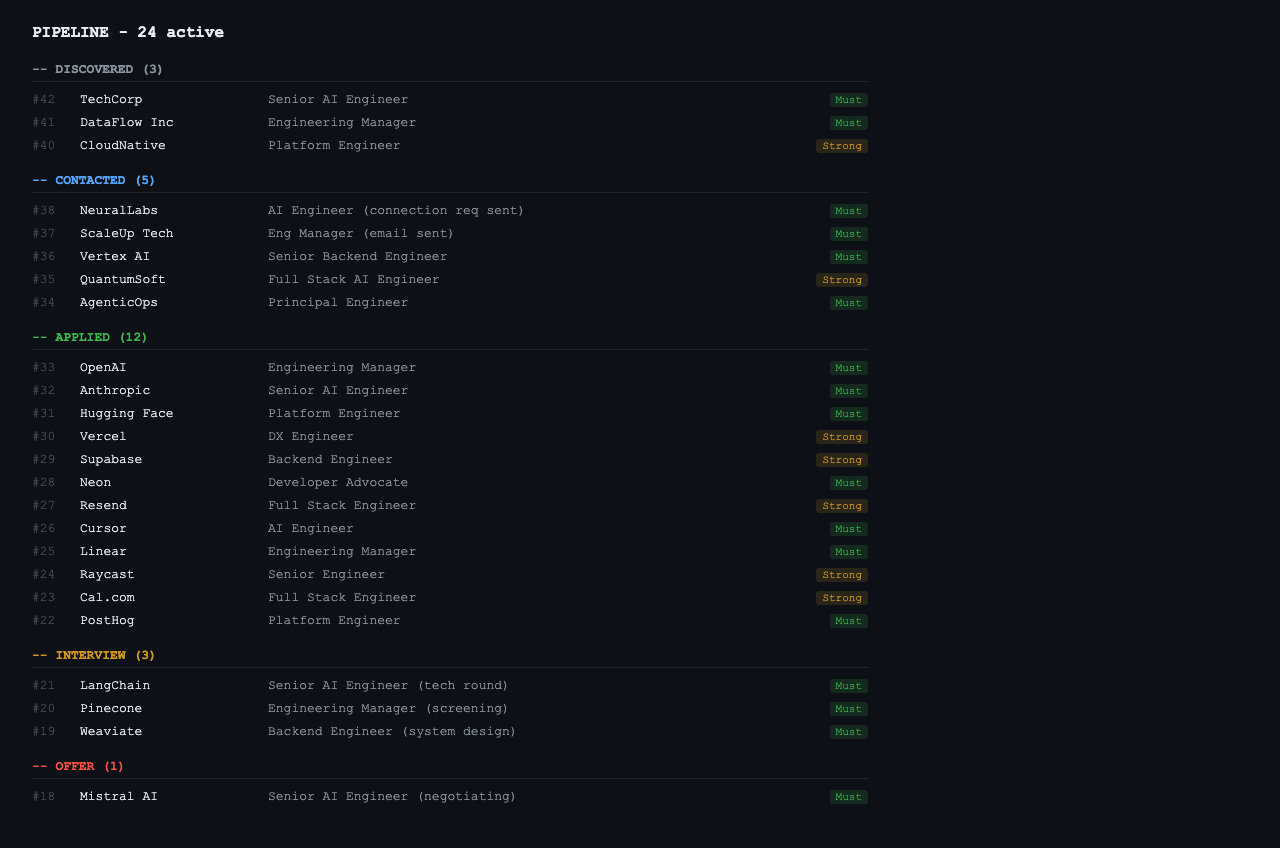
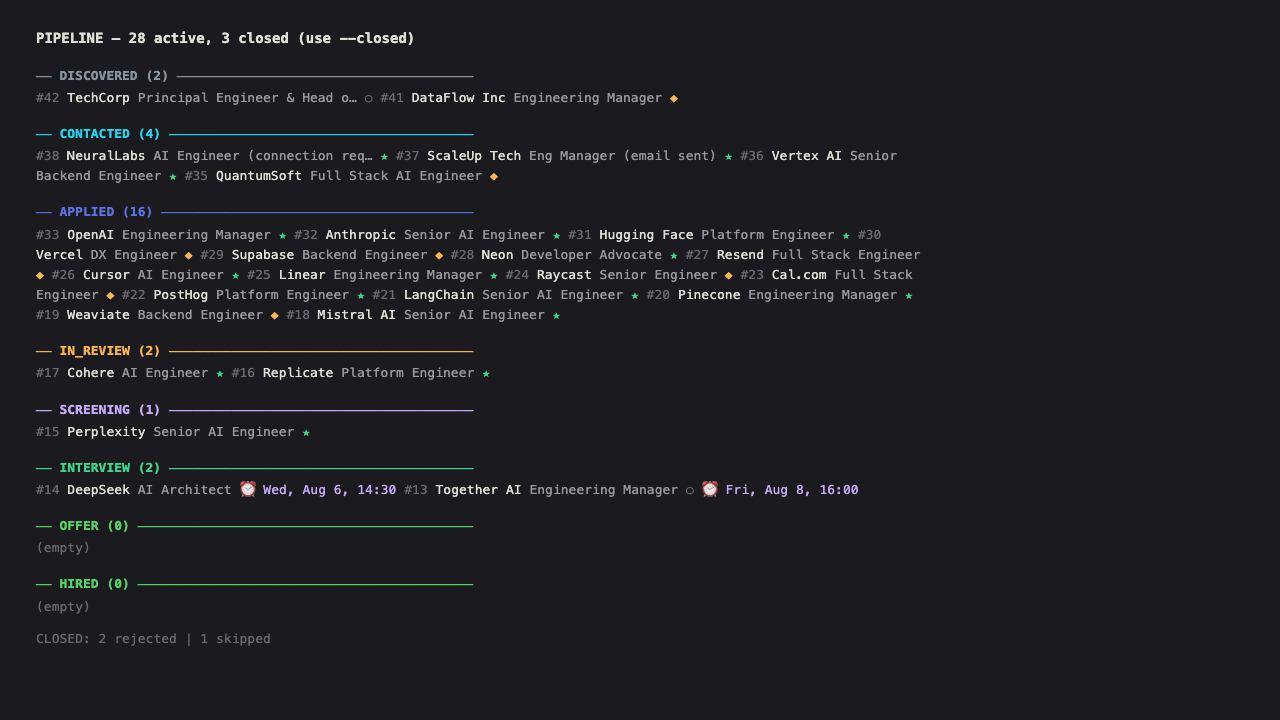
Fix pipeline-demo screenshot to match actual CLI output
The previous demo showed an HTML-styled kanban with wrong colors,
missing stages (IN_REVIEW, SCREENING, HIRED), HTML badges instead
of ★/◆/○ match symbols, and no interview dates. Now the demo
faithfully reproduces the real `node scripts/pipeline.js` terminal
output with placeholder data:
- All 8 active stages present with correct ANSI colors
- ★/◆/○ match indicators instead of badge pills
- ⏰ interview date lines for scheduled cards
- (empty) for stages with no cards
- CLOSED summary line
- Terminal monospace font on dark background matching the
  VitePress dark theme

Also added a description line under the screenshot in README.md
explaining the CLI flags (--closed, --funnel, --move, --card).

Generated with [Devin](https://devin.ai)

diff --git a/README.md b/README.md
@@ -19,6 +19,8 @@ https://github.com/galiprandi/job-seeker/releases/download/v0.1.0/demo-terminal.
 
 ![Pipeline Kanban](assets/pipeline-demo.png)
 
+The CLI prints a terminal kanban grouped by pipeline stage (discovered → hired), with match indicators (★ Must, ◆ Strong, ○ Nice), interview dates, and a closed summary. Use `--closed` to include rejected/withdrawn/skipped columns, `--funnel` for a bar chart, `--move <id> <stage>` to move cards, and `--card <id>` for full card detail with linked messages.
+
 **Local dashboard** (`node scripts/dashboard.js --open`):
 
 ![Dashboard](assets/dashboard-v2-full.png)
